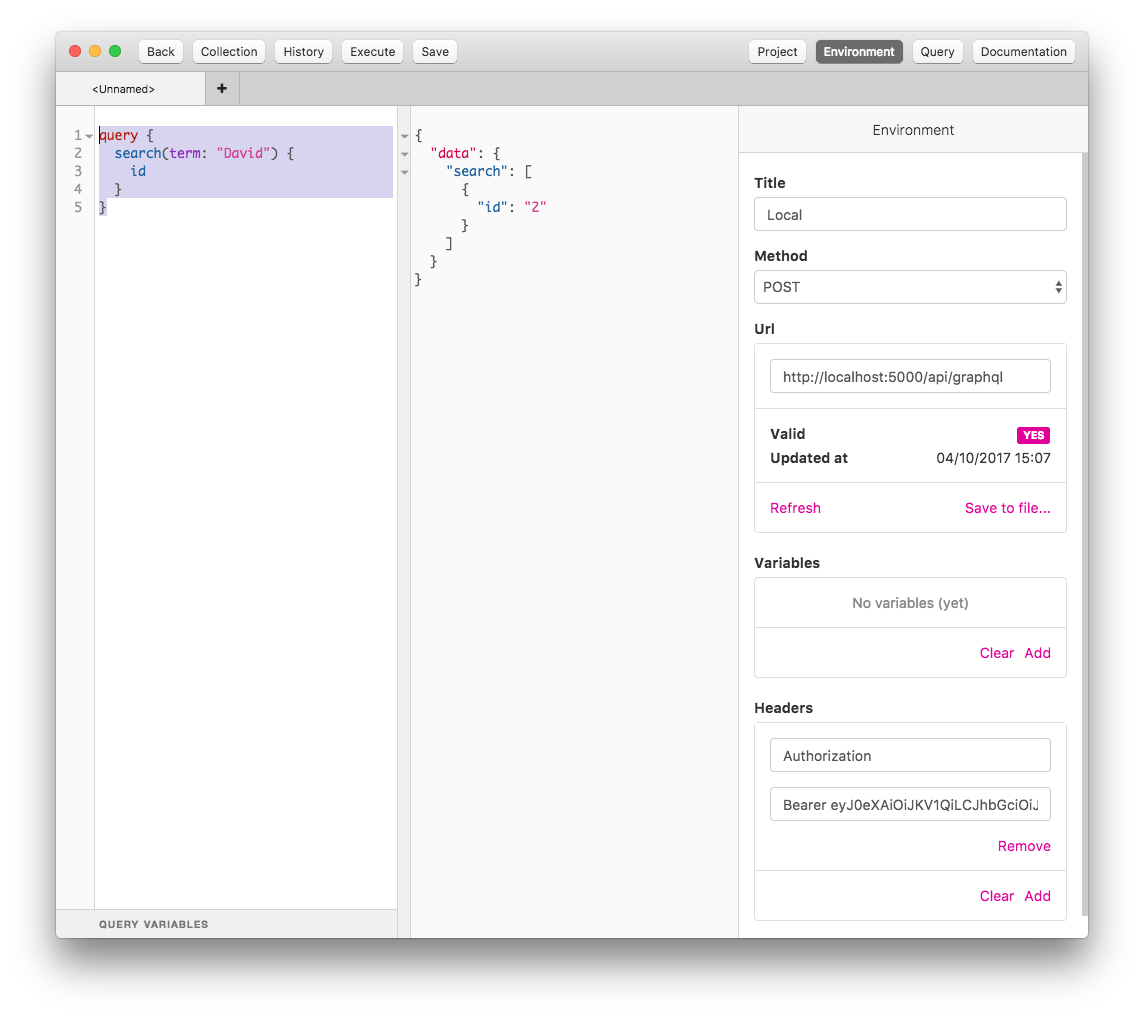
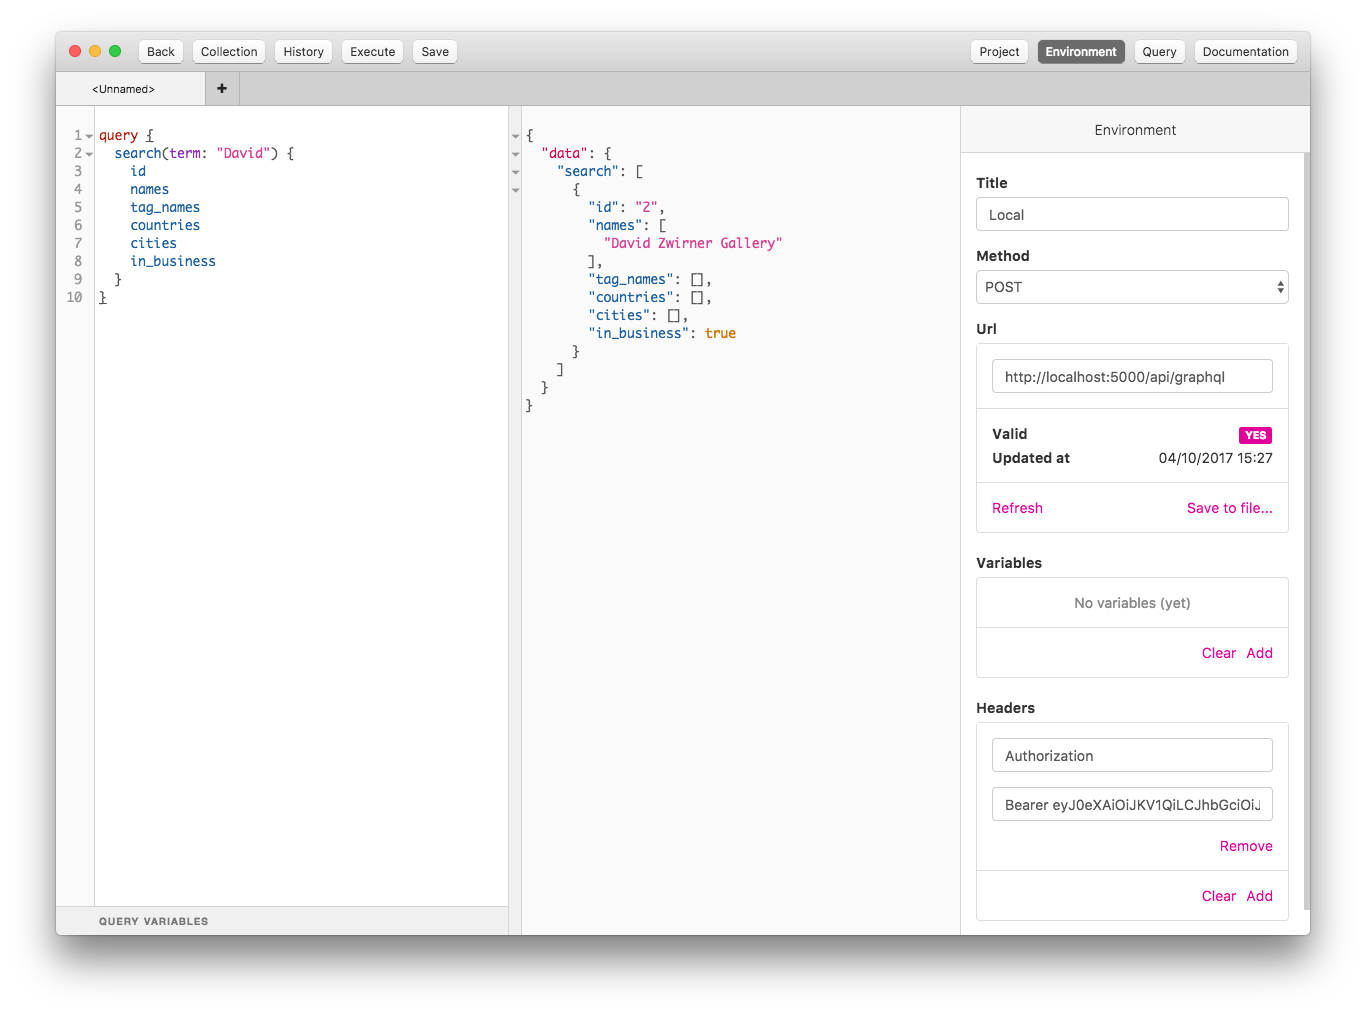
Added missing search fields.

diff --git a/spec/graphql/types/organization_type_spec.rb b/spec/graphql/types/organization_type_spec.rb
@@ -5,5 +5,15 @@ describe BeardenSchema.types['Organization'] do
     expect(described_class.name).to eq('Organization')
   end
 
-  it { is_expected.to have_graphql_fields(:id, :names) }
+  it {
+    is_expected.to have_graphql_fields(
+      :id,
+      :names,
+      :tag_names,
+      :website_urls,
+      :cities,
+      :countries,
+      :in_business
+    )
+  }
 end

diff --git a/app/graphql/types/organization_type.rb b/app/graphql/types/organization_type.rb
@@ -3,4 +3,9 @@ Types::OrganizationType = GraphQL::ObjectType.define do
 
   field :id, !types.ID
   field :names, !types[types.String]
+  field :tag_names, types[types.String]
+  field :website_urls, types[types.String]
+  field :cities, types[types.String]
+  field :countries, types[types.String]
+  field :in_business, types.Boolean
 end

diff --git a/spec/support/matchers/graphql_matchers.rb b/spec/support/matchers/graphql_matchers.rb
@@ -2,4 +2,7 @@ RSpec::Matchers.define :have_graphql_fields do |*expected|
   match do |kls|
     expect(kls.fields.keys).to contain_exactly(*expected.map(&:to_s))
   end
+  failure_message do |actual|
+    "expected #{actual} GraphQL fields #{actual.fields.keys} to be #{expected.map(&:to_s)}"
+  end
 end

diff --git a/docs/API.md b/docs/API.md
@@ -6,21 +6,21 @@ Bearden implements a GraphQL API.
 
 Trusted apps may use the Bearden API using [JWT](https://jwt.io/) authentication. You will need to obtain a JWT for Bearden from a Gravity console on Staging.
 
-```ruby
+```
 ~/gravity $  AWS_USER=... AWS_ID=... AWS_SECRET=... rake ow:console[staging]
 Starting remote console... (use Ctrl-D to exit cleanly)
 Loading staging environment (Rails 5.0.3)
 gravity:staging>
 ```
 
-```
+```ruby
 app = ClientApplication.where(name: 'Bearden').first
 expires_in = 42.years.from_now
 token = ApplicationTrust.create_for_token_authentication(app, expires_in: expires_in)
 puts token
 ```
 
-Add the token to your `.env` file. Once in possession of the token, send it in your requests to Bearden:
+Save your token in your `.env` file if needed. Once in possession of the token, send it in your requests to Bearden:
 
 ```ruby
 headers = { 'Authorization' => "Bearer #{token}" }
